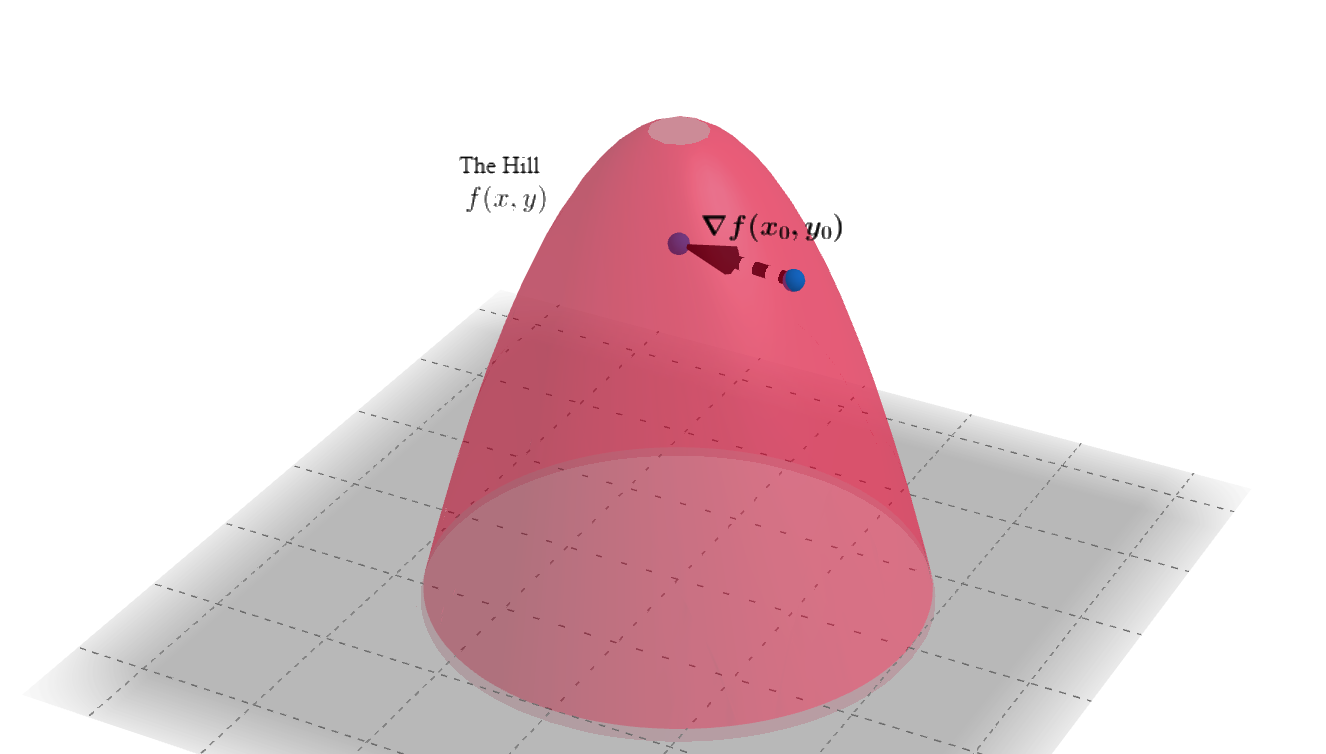
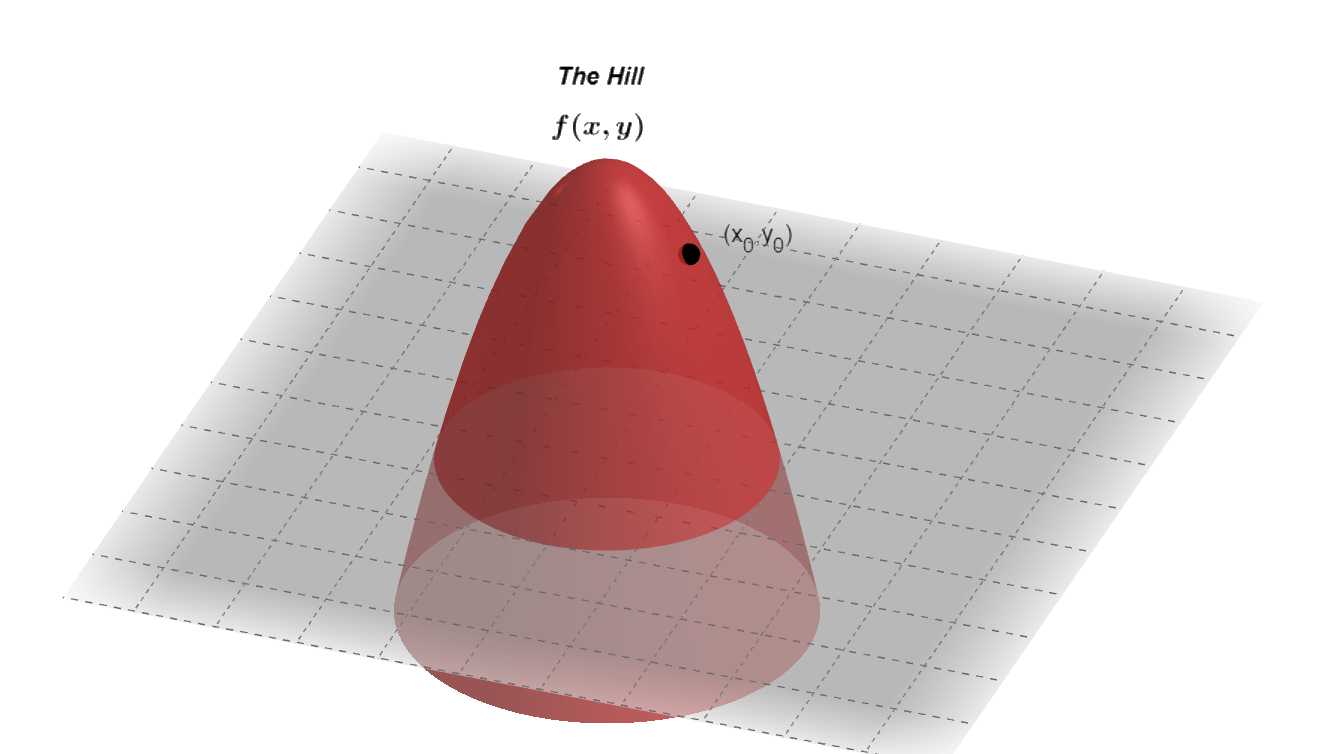
correction gradient post

diff --git a/_posts/2025-07-15-function_gradient.md b/_posts/2025-07-15-function_gradient.md
@@ -25,17 +25,13 @@ To build intuition, let’s consider the 2D case with variables $$x$$ and $$y$$.
 
 Suppose you’re **standing on a hill** at the point $$(x_0, y_0) \in \mathbb{R}^2$$, and you want to ascend as rapidly as possible. The elevation at any point is given by a function $$f(x, y)$$.
 
-Let’s visualize this situation in two complementary ways:
-
-- **3D Surface Plot:** In this visualization, the hill is represented as a three-dimensional surface, and the gradient vector is shown as an arrow on the surface. This makes it clear how the gradient points in the direction where the surface rises most steeply. Just as a function of one variable can be plotted as a curve in two dimensions, a function of two variables can be visualized as a surface in three dimensions, helping us see how changes in both variables affect the function's value.
-
-<img src='/images/gradient3d.png' alt='3D plot of a hill with gradient vector'>
+<img src='/images/gradient3d.png' alt='3D plot of a hill'>
 
 - **2D Level Curves (Contour Plot):** By projecting the surface onto a plane, we can use level curves (contours of constant elevation) to see how the gradient behaves in two dimensions.
 
 <img src='/images/gradient2d.png' alt='2D contour plot with gradient vector'>
 
-In both visualizations, the gradient vector at $$(x_0, y_0)$$ points in the direction where the elevation increases most rapidly.
+The gradient vector at $$(x_0, y_0)$$ not only points in the direction of the steepest ascent—where the function increases most rapidly—but is also always **perpendicular** (orthogonal) to the tangent of any level curve passing through that point. This means that if you walk along a level curve (where the function value stays constant), you are moving in a direction where the gradient has no component; the function does not increase or decrease. In contrast, moving directly in the direction of the gradient gives you the fastest possible increase in the function's value.
 
 To see mathematically why the gradient points in the direction of steepest ascent, let’s compute the **rate of change of the function** as you move away from $$(x_0, y_0)$$ in a particular direction. Suppose you pick a direction given by the unit vector $$\vec{v} = (a, b)$$. If you take a small step of size $$t$$ in this direction, your new position becomes: 
 
